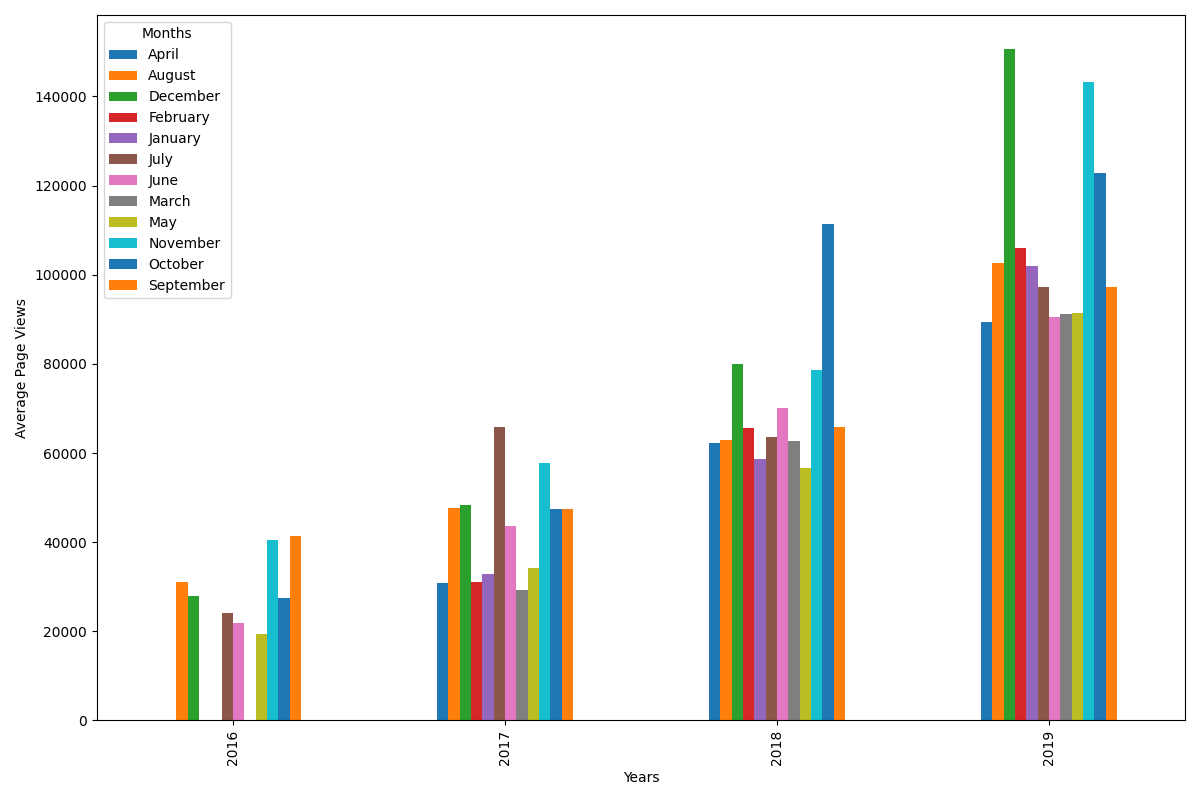
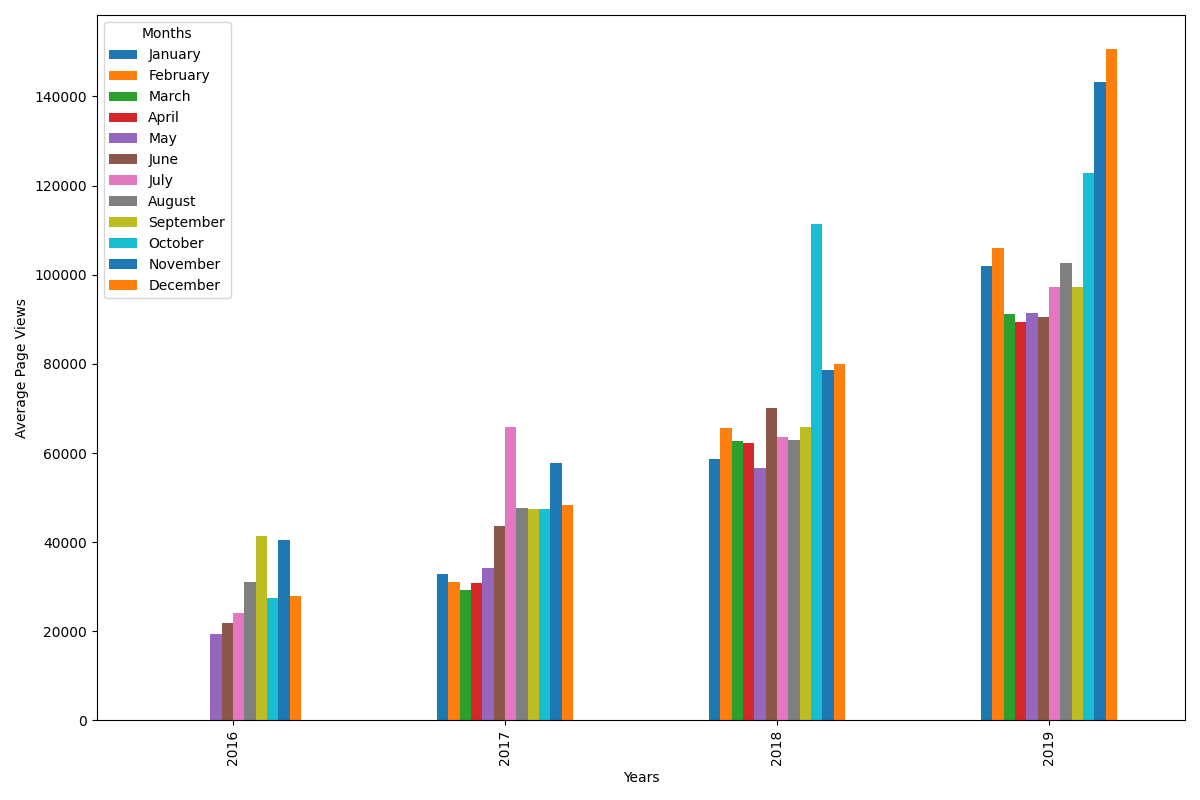
fix: visualização de séries temporais

diff --git a/time_series_visualizer.py b/time_series_visualizer.py
@@ -25,13 +25,22 @@ def draw_line_plot():
 def draw_bar_plot():
     df_bar = df.copy()
     df_bar['year'] = df.index.year
-    df_bar['month'] = df.index.month_name()
+    df_bar['month'] = df.index.month
+
+    # Agrupar os dados
     df_grouped = df_bar.groupby(['year', 'month'])['value'].mean().unstack()
 
-    fig = df_grouped.plot(kind='bar', figsize=(12, 8)).figure
-    plt.xlabel('Years')
-    plt.ylabel('Average Page Views')
-    plt.legend(title='Months')
+    # Criar o gráfico de barras
+    fig, ax = plt.subplots(figsize=(12, 8))
+    df_grouped.plot(kind='bar', ax=ax)
+
+    # Ajustar os rótulos e a legenda
+    ax.set_xlabel('Years')
+    ax.set_ylabel('Average Page Views')
+    ax.legend(title='Months', labels=[
+        'January', 'February', 'March', 'April', 'May', 'June',
+        'July', 'August', 'September', 'October', 'November', 'December'
+    ])
     plt.tight_layout()
     fig.savefig('bar_plot.png')
     return fig
@@ -40,21 +49,21 @@ def draw_bar_plot():
 def draw_box_plot():
     df_box = df.copy()
     df_box['year'] = df.index.year
-    df_box['month'] = df.index.month_name()
-    df_box['month_num'] = df.index.month
-    df_box = df_box.sort_values('month_num')
+    df_box['month'] = df.index.month
+    df_box['month_name'] = df.index.strftime('%b')  # Formatar os meses como abreviações (Jan, Feb, ...)
 
     fig, axes = plt.subplots(1, 2, figsize=(15, 6))
 
+    # Box plot por ano
     sns.boxplot(x='year', y='value', data=df_box, ax=axes[0])
     axes[0].set_title('Year-wise Box Plot (Trend)')
     axes[0].set_xlabel('Year')
     axes[0].set_ylabel('Page Views')
 
-    sns.boxplot(x='month', y='value', data=df_box, ax=axes[1], order=[
-        'January', 'February', 'March', 'April', 'May', 'June',
-        'July', 'August', 'September', 'October', 'November', 'December'
-    ])
+    # Box plot por mês
+    sns.boxplot(x='month_name', y='value', data=df_box, ax=axes[1],
+                order=['Jan', 'Feb', 'Mar', 'Apr', 'May', 'Jun',
+                       'Jul', 'Aug', 'Sep', 'Oct', 'Nov', 'Dec'])
     axes[1].set_title('Month-wise Box Plot (Seasonality)')
     axes[1].set_xlabel('Month')
     axes[1].set_ylabel('Page Views')
@@ -62,3 +71,4 @@ def draw_box_plot():
     plt.tight_layout()
     fig.savefig('box_plot.png')
     return fig
+
